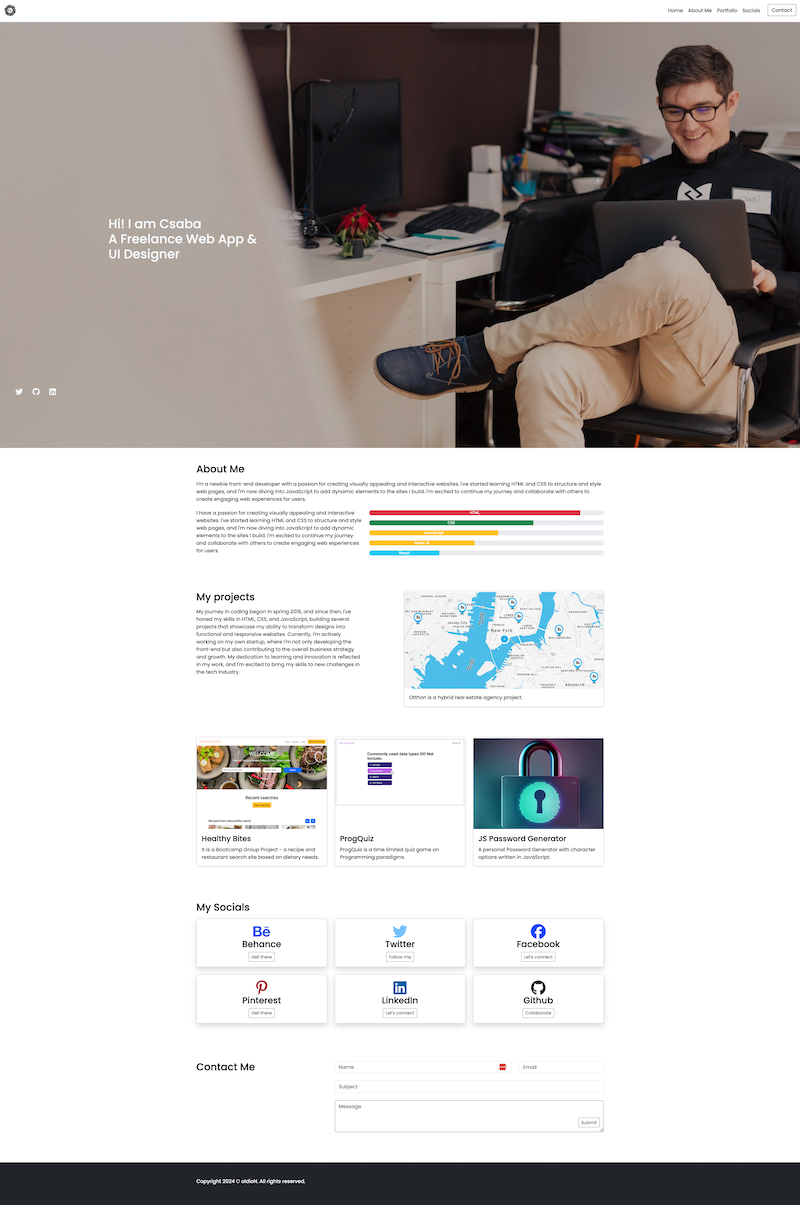
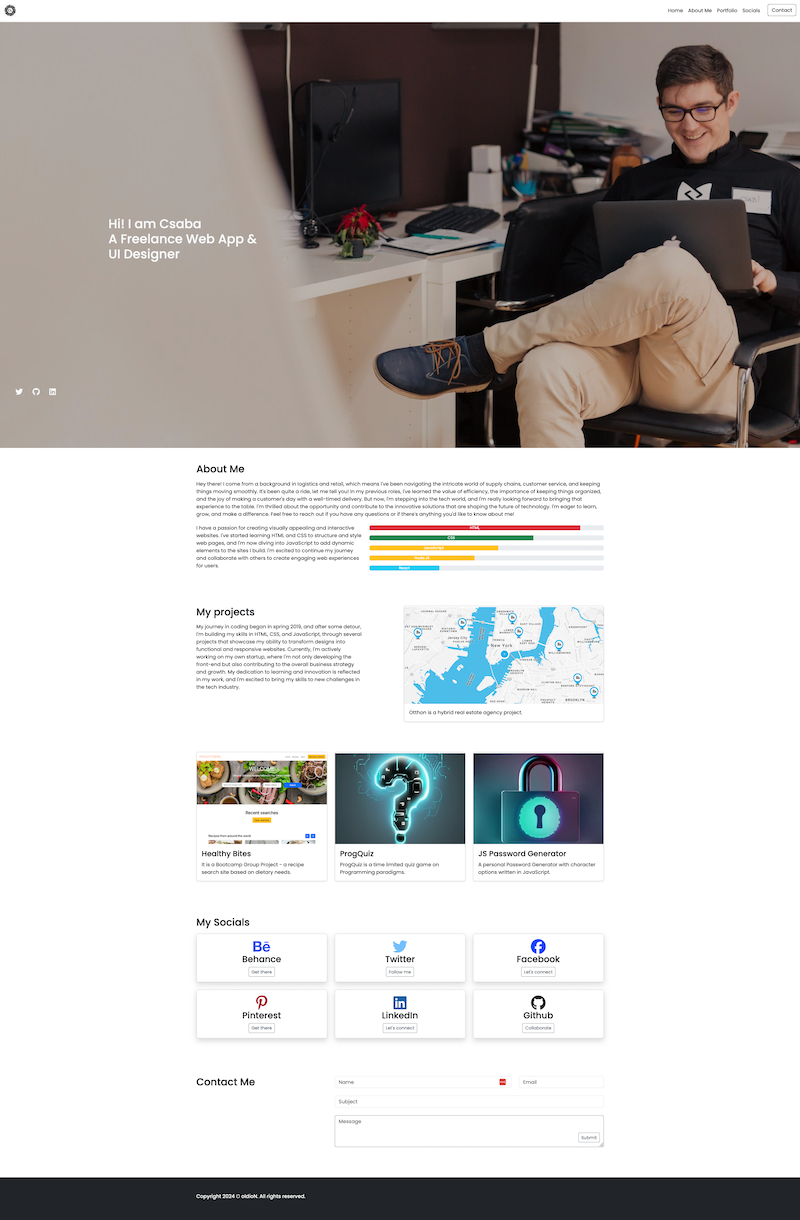
updated imgaes/links/readme

diff --git a/index.html b/index.html
@@ -87,10 +87,9 @@
           <div class="col-12 col-md-12">
             <div class="br-0">
              <h2 class="mb-3">About Me</h2>
-              <p class="text-h3">Hey there! I'm super excited to dive into this new journey with you all. 
-                I come from a background in logistics and retail, which means I've been navigating the intricate world of supply chains, customer service, and keeping things moving smoothly. It's been quite a ride, let me tell you!
+              <p class="text-h3">Hey there! I come from a background in logistics and retail, which means I've been navigating the intricate world of supply chains, customer service, and keeping things moving smoothly. It's been quite a ride, let me tell you!
                 In my previous roles, I've learned the value of efficiency, the importance of keeping things organized, and the joy of making a customer's day with a well-timed delivery. 
-                But now, I'm stepping into the tech world, and I'm really looking forward to bringing that experience to the table. I'm thrilled about the opportunity to work with you all and contribute to the innovative solutions that are shaping the future of technology. 
+                But now, I'm stepping into the tech world, and I'm really looking forward to bringing that experience to the table. I'm thrilled about the opportunity and contribute to the innovative solutions that are shaping the future of technology. 
                 I'm eager to learn, grow, and make a difference.                
                 Feel free to reach out if you have any questions or if there's anything you'd like to know about me!</p>              
             </div>
@@ -137,7 +136,7 @@
           <div class="col-12 col-md-5 column align-self-start">
             <h2 class="mb-3">My projects</h2>
             <div class="br-0">
-            <p class="text-h3">My journey in coding began in spring 2018, and after some detour, I'm building my skills in HTML, CSS, and JavaScript, 
+            <p class="text-h3">My journey in coding began in spring 2019, and after some detour, I'm building my skills in HTML, CSS, and JavaScript, 
               through several projects that showcase my ability to transform designs into functional and responsive websites. 
               Currently, I'm actively working on my own startup, where I'm not only developing the front-end but also contributing 
               to the overall business strategy and growth. My dedication to learning and innovation is reflected in my work, 
@@ -167,7 +166,7 @@
                <img class="img-fluid" src="./src/images/site/healthybites.png"> 
                 <div class="card-body"> <a href="https://github.com/frankrl86/FEBC_Project01">
                 <h4 class="card-title">Healthy Bites</h4>
-                <p class="card-text link">It is a Bootcamp Group Project - a recipe and restaurant search site based on dietary needs.</p></a>
+                <p class="card-text link">It is a Bootcamp Group Project - a recipe search site based on dietary needs.</p></a>
               </div>
             </div>
           </div>

diff --git a/README.md b/README.md
@@ -16,7 +16,7 @@
 <h3 align="center">Bootstrap Portfolio</h3>
 
   <p align="center">
-   This challenge is about a Password Generator app features dynamically updated HTML and CSS, all powered by JavaScript. <br> App has to have a clean and polished user interface that is responsive, ensuring that it adapts to multiple screen sizes. <br> The password also includes special characters.
+   This challenge is about a Portfolio page based on Bootstrap <br> App has to have a clean and polished user interface that is responsive, ensuring that it adapts to multiple screen sizes. <br>It is an extension of a previous Portfolio challenge.
     <br />
     <br />
     <a href="https://github.com/oIdioN/Bootstrap-Portfolio">Repo page</a>
@@ -81,7 +81,8 @@ The screenshot of the whole website.
 
 ### Built With
 
-![Static Badge](https://img.shields.io/badge/HTML-34%25-red?style=plastic) ![Static Badge](https://img.shields.io/badge/CSS-32%25-brightgreen?style=plastic) ![Static Badge](https://img.shields.io/badge/JavaScript-34%25-orange?style=plastic)
+![Static Badge](https://img.shields.io/badge/HTML-96%25-red?style=for-the-badge)
+![Static Badge](https://img.shields.io/badge/css-4%25-brigthgreen?style=for-the-badge)
 
 
 ## Description 
@@ -212,15 +213,15 @@ Distributed under the MIT License.
 
 <!-- MARKDOWN LINKS & IMAGES -->
 <!-- https://www.markdownguide.org/basic-syntax/#reference-style-links -->
-[contributors-shield]: https://img.shields.io/github/contributors/oIdioN/JavaScript-Password-Generator-challenge.svg?style=for-the-badge
+[contributors-shield]: https://img.shields.io/github/contributors/oIdioN/Bootstrap-Portfolio.svg?style=for-the-badge
 [contributors-url]: https://github.com/oIdioN/Bootstrap-Portfolio/graphs/contributors
-[forks-shield]: https://img.shields.io/github/forks/oIdioN/JavaScript-Password-Generator-challenge.svg?style=for-the-badge
+[forks-shield]: https://img.shields.io/github/forks/oIdioN/Bootstrap-Portfolio.svg?style=for-the-badge
 [forks-url]: https://github.com/oIdioN/Bootstrap-Portfolio/forks
-[stars-shield]: https://img.shields.io/github/stars/oIdioN/JavaScript-Password-Generator-challenge.svg?style=for-the-badge
+[stars-shield]: https://img.shields.io/github/stars/oIdioN/Bootstrap-Portfolio.svg?style=for-the-badge
 [stars-url]: https://github.com/oIdioN/Bootstrap-Portfolio/stargazers
-[issues-shield]: https://img.shields.io/github/issues/ooIdioN/JavaScript-Password-Generator-challenge.svg?style=for-the-badge
+[issues-shield]: https://img.shields.io/github/issues/oIdioN/Bootstrap-Portfolio.svg?style=for-the-badge
 [issues-url]: https://github.com/oIdioN/Bootstrap-Portfolio/issues 
-[license-shield]: https://img.shields.io/github/license/oIdioN/JavaScript-Password-Generator-challenge.svg?style=for-the-badge
+[license-shield]: https://img.shields.io/github/license/oIdioN/Bootstrap-Portfolio.svg?style=for-the-badge
 [license-url]: https://github.com/oIdioN/Bootstrap-Portfolio?tab=MIT-1-ov-file#readme
 [product-screenshot]: src/images/screenshot/sitecover.png
 [NodeJS]: https://img.shields.io/badge/node.js-6DA55F?style=for-the-badge&logo=node.js&logoColor=white
